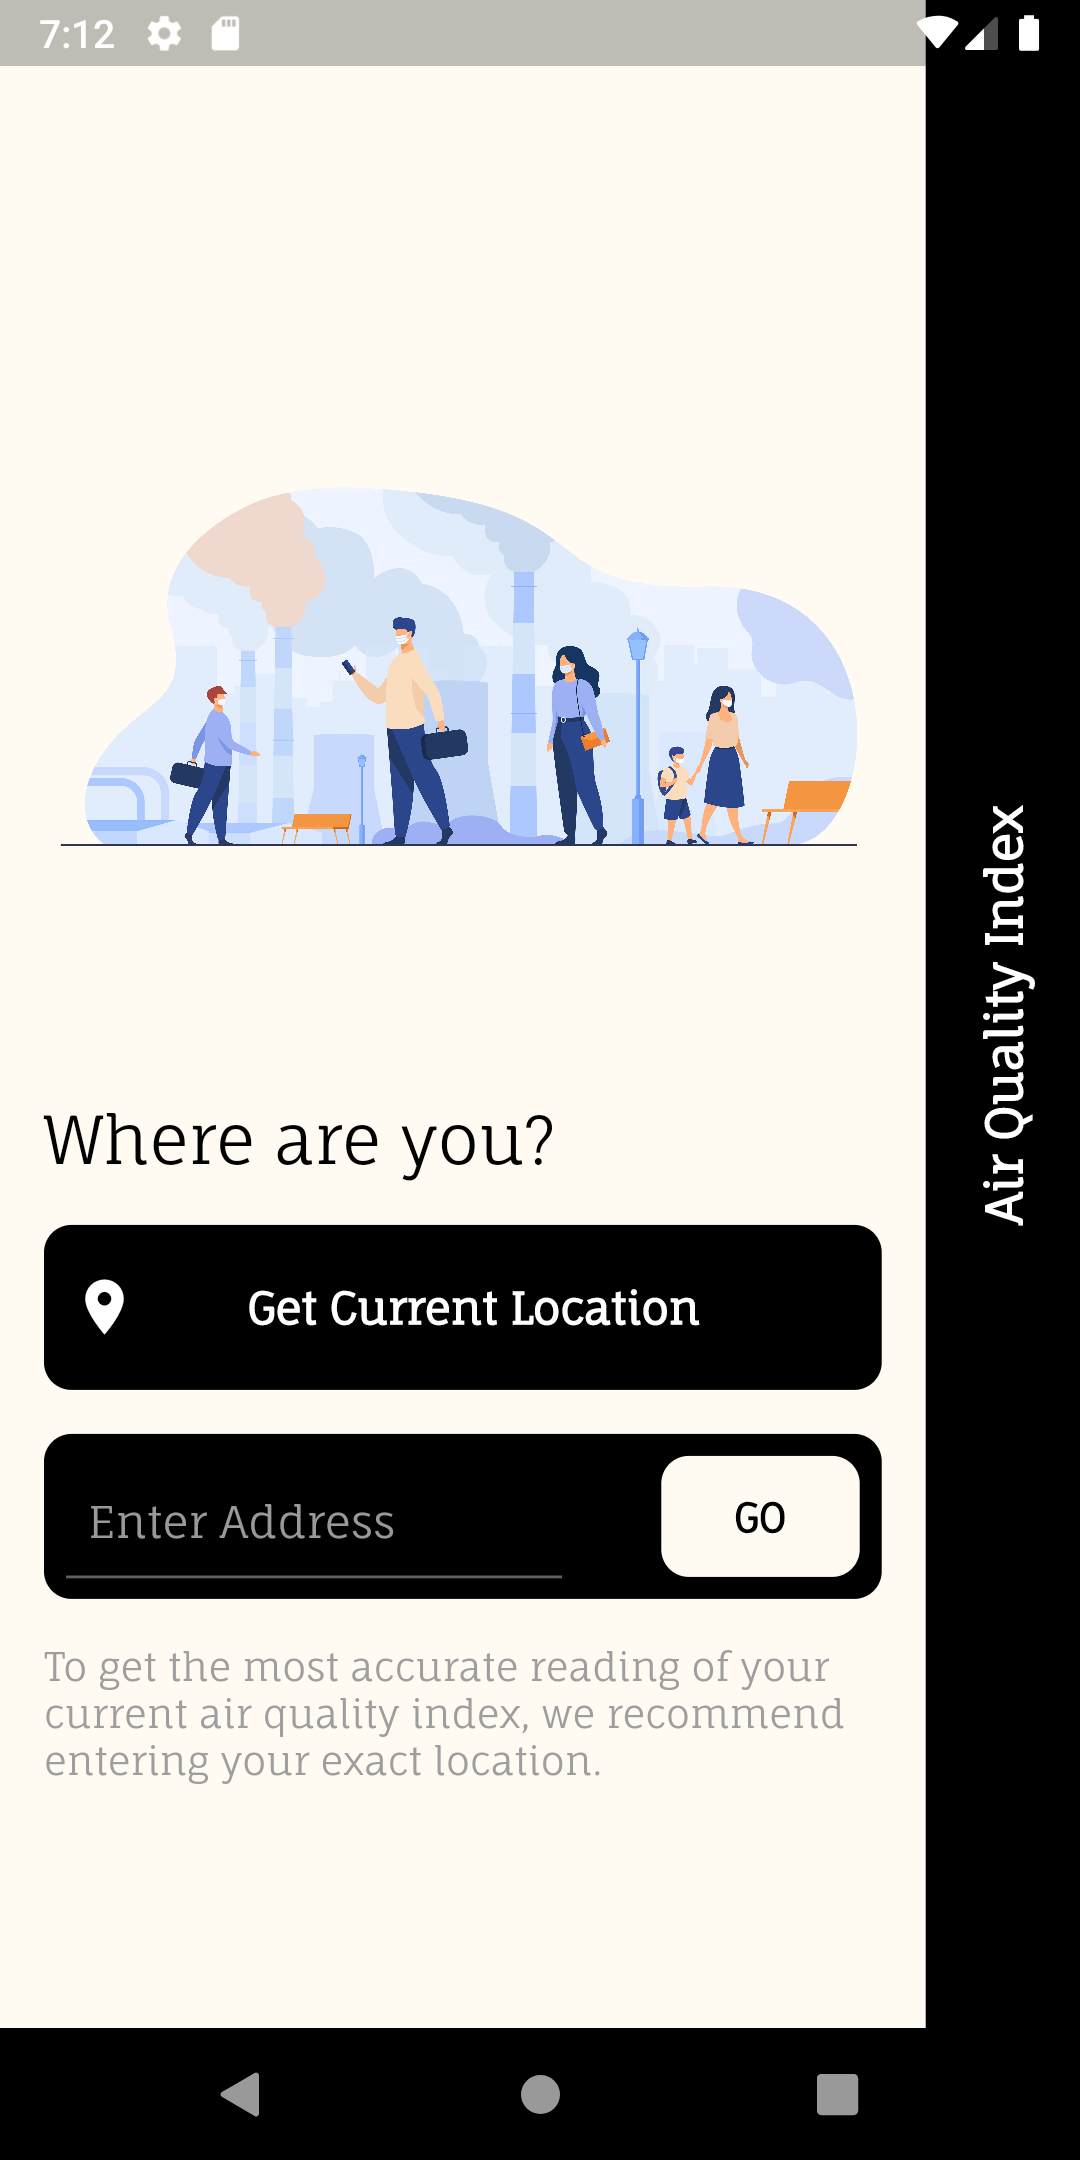
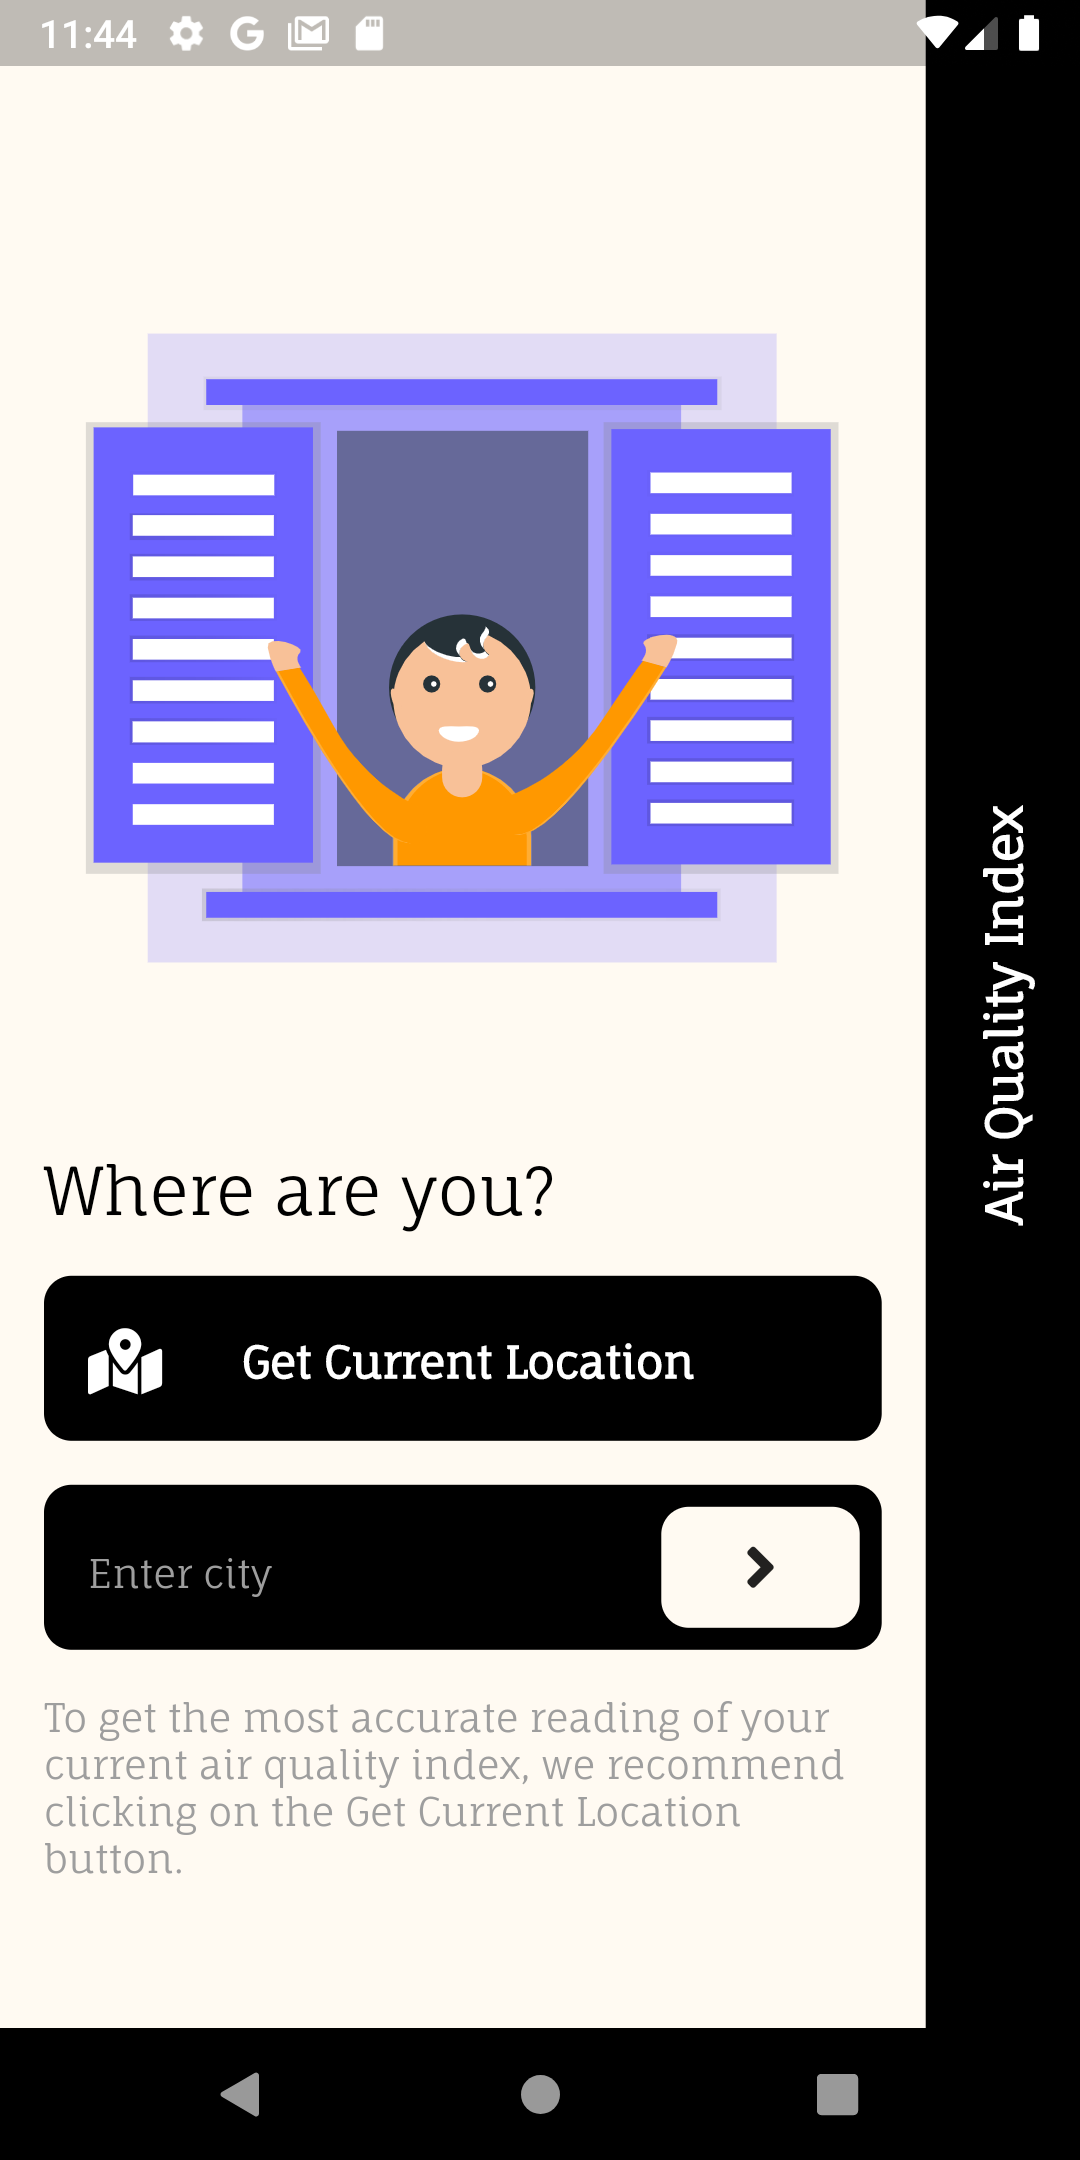
Updated README

diff --git a/lib/data/data.dart b/lib/data/data.dart
@@ -46,7 +46,7 @@ List<Data> data = [
   Data(
     minAQI: 101,
     maxAQI: 150,
-    pollutionLevel: 'unhealthy_for_sensitive_groups'.tr(),
+    pollutionLevel: 'unhealthy_sensitive'.tr(),
     healthImplecations: 'unhealthy_sensitive_health_implications'.tr(),
     cautionaryStatement: 'unhealthy_sensitive_cautionary_statement'.tr(),
     icon: 'assets/unhealthy-sensitive.svg',

diff --git a/lib/pages/location_page/widgets/build_address_field.dart b/lib/pages/location_page/widgets/build_address_field.dart
@@ -30,7 +30,7 @@ buildAddressTextField({
                   fontSize: 14,
                 ),
                 decoration: InputDecoration(
-                  hintText: 'Enter Address',
+                  hintText: 'Enter city',
                   contentPadding: EdgeInsets.all(8.h),
                   hintStyle: GoogleFonts.faunaOne(
                     color: Colors.grey,

diff --git a/README.md b/README.md
@@ -14,15 +14,19 @@
 | <img src="screenshots/intro.png" alt="drawing" width="270"/> | <img src="screenshots/home_1.png" alt="drawing" width="270"/> | <img src="screenshots/home_2.png" alt="drawing" width="270"/> |
 
 
-|                        Statistics Screen                         |                         About Screen 1                        |                      About Screen 2                       |
+|                        About Screen 1                         |                         About Screen 2                        |                      Settings Screen                       |
 | :---------------------------------------------------------------: | :-------------------------------------------------------------: | :--------------------------------------------------------------: |
-| <img src="screenshots/statistics.png" alt="drawing" width="270"/> | <img src="screenshots/about_1.png" alt="drawing" width="270"/> | <img src="screenshots/about_2.png" alt="drawing" width="270"/> |
+| <img src="screenshots/about_1.png" alt="drawing" width="270"/> | <img src="screenshots/about_2.png" alt="drawing" width="270"/> | <img src="screenshots/settings.png" alt="drawing" width="270"/> |
+
+|                         Dark Mode                      |                         Statistics Screen                        |                      Multilingual support                       |
+| :---------------------------------------------------------------: | :-------------------------------------------------------------: | :--------------------------------------------------------------: |
+| <img src="screenshots/home_night.png" alt="drawing" width="270"/> | <img src="screenshots/statistics.png" alt="drawing" width="270"/> | <img src="screenshots/about_multilingual.png" alt="drawing" width="270"/> |
 
 ## Description
 This app aims to help you check the air quality of your area and take necessary precausions. Check the quality of air surrounding you and get recommended health advice based on that. Made using flutter and the [waqi](https://waqi.info/) api.
 
 ## Demo
-### [Android App](https://drive.google.com/file/d/1uCLp-dDWwGQEKbUW1BSDhCxdUwPOuGp-/view?usp=sharing)
+### [Android App](https://drive.google.com/file/d/19pXcv4mxn-XlqRQR1AV1jDbVpSOHHG61/view?usp=sharing)
 
 An android fat application made using Flutter.
 
@@ -42,6 +46,7 @@ An android fat application made using Flutter.
 - [x] Add expanded tiles
 - [x] Add dynamic theming (persistant)
 - [ ] Implement caching of data (Offline functionality)
+- [ ] Change the syncfusion graph package to flutter_graphs
 - [ ] Implement better state management
 - [ ] Build the responsive site
 
